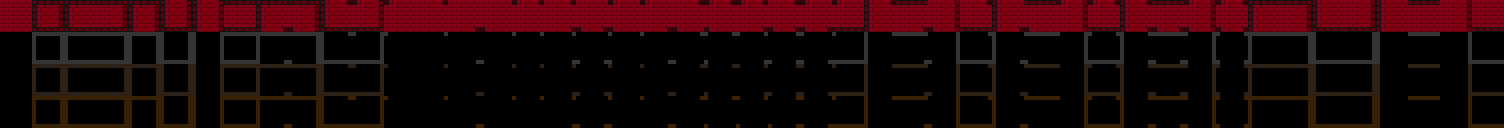
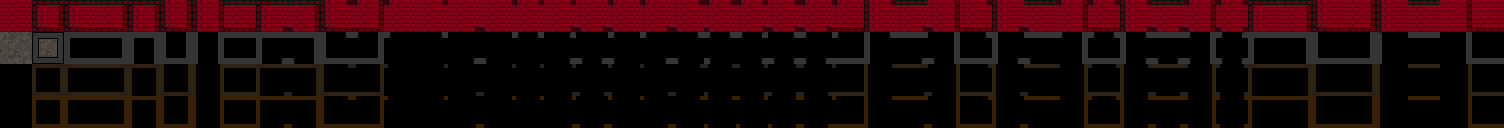
Fix Bug - Hovering And Handle Events GhostChunk

diff --git a/Editor-RPG2D/src/Editors/MapEditor/Map/GhostChunk.cpp b/Editor-RPG2D/src/Editors/MapEditor/Map/GhostChunk.cpp
@@ -37,8 +37,9 @@ void GhostChunk::cursorHover() {
 		return;
 
 	sf::Vector2i coords;
-	coords.x = std::floor((float)MapEditor::editor->_cursor_on_map->_position.x / (float)(Chunk::tilesCols * Tile::tileSize));
-	coords.y = std::floor((float)MapEditor::editor->_cursor_on_map->_position.y / (float)(Chunk::tilesRows * Tile::tileSize));
+	coords.x = std::floor((float)MapEditor::editor->_cursor_on_map->_globalPosition.x / (float)(Chunk::tilesCols * Tile::tileSize));
+	coords.y = std::floor((float)MapEditor::editor->_cursor_on_map->_globalPosition.y / (float)(Chunk::tilesRows * Tile::tileSize));
+
 
 	if (
 		MapEditor::editor->_map->getChunkByCoords(coords.x, coords.y) == nullptr && (
@@ -124,11 +125,11 @@ void GhostChunk::cursorHover() {
 			map->setVisibleChunks();
 		};
 
-		if (_rect.contains(MapEditor::editor->_cursor_on_map->_position)) {
+		if (_rect.contains(MapEditor::editor->_cursor_on_map->_globalPosition)) {
 			GUI_manager->Element_hovered = shared_from_this();
 			
 			// manual cursor hover for button
-			if(_button->_rect.contains(MapEditor::editor->_cursor_on_map->_position)) {
+			if(_button->_rect.contains(MapEditor::editor->_cursor_on_map->_globalPosition)) {
 				GUI_manager->Element_hovered = _button;
 			}
 		}
